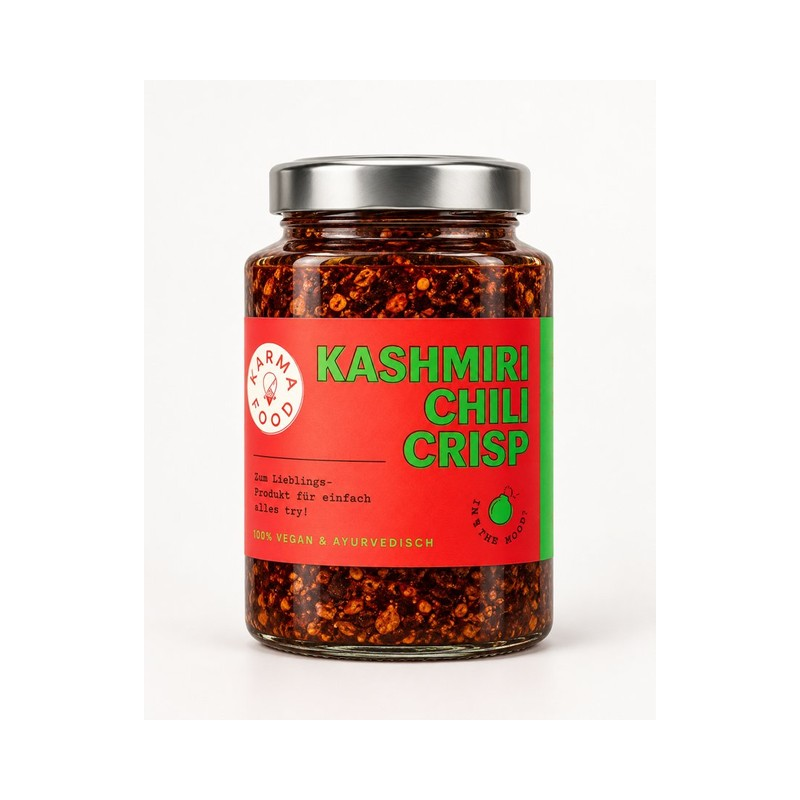
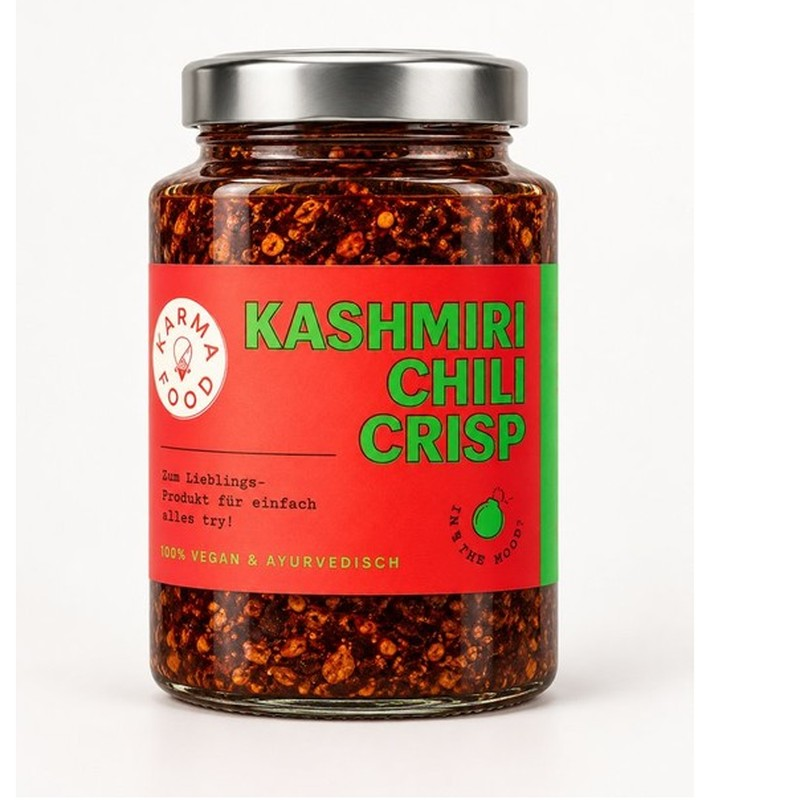
Großglas-Bilder größer (weniger Rand) v6.99.202
Claude-Session: https://claude.ai/code/session_01CJ8pKiqzC1Sn5TgXXfbyxy

diff --git a/public/index.html b/public/index.html
@@ -1588,7 +1588,7 @@ function renderKontrolleView(){
 function renderKontrolleOverlay(){ goTo('kontrolle'); }
 function setHomeMode(m){ homeMode=m; renderHome(); }
 // Hygiene-Schulung: pro Person statt pro Filiale, Selbst-Eintragung durch Mitarbeitende
-const APP_VERSION = '6.99.201';
+const APP_VERSION = '6.99.202';
 
 const HYGIENE_INHALTE = ['Temperatur der Waren','Temperaturkontrolle der Kühlflächen/Geräte','Lagerung und Ausgabe der Speisen','Wareneingangskontrolle','Reinigung der Oberflächen','Reinigung der Kaffeemaschine und Eiswürfelmaschine'];
 const HYGIENE_TRAINER = ['Adi','Simone','Tini'];
